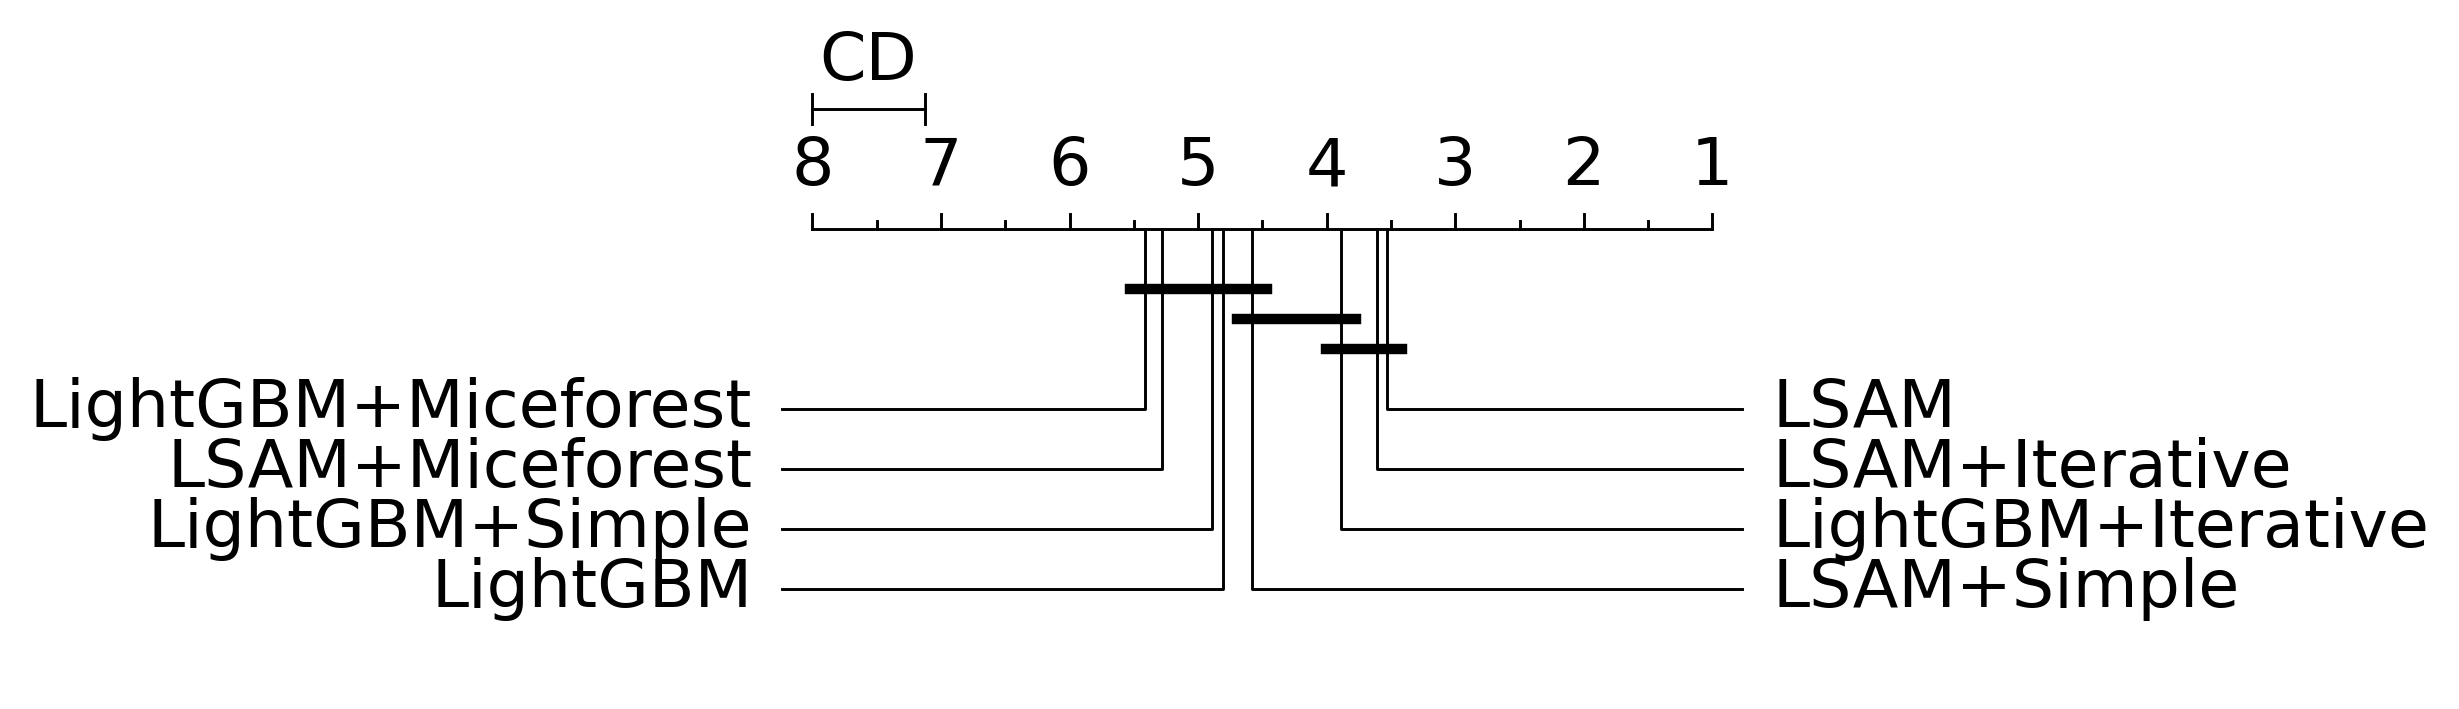
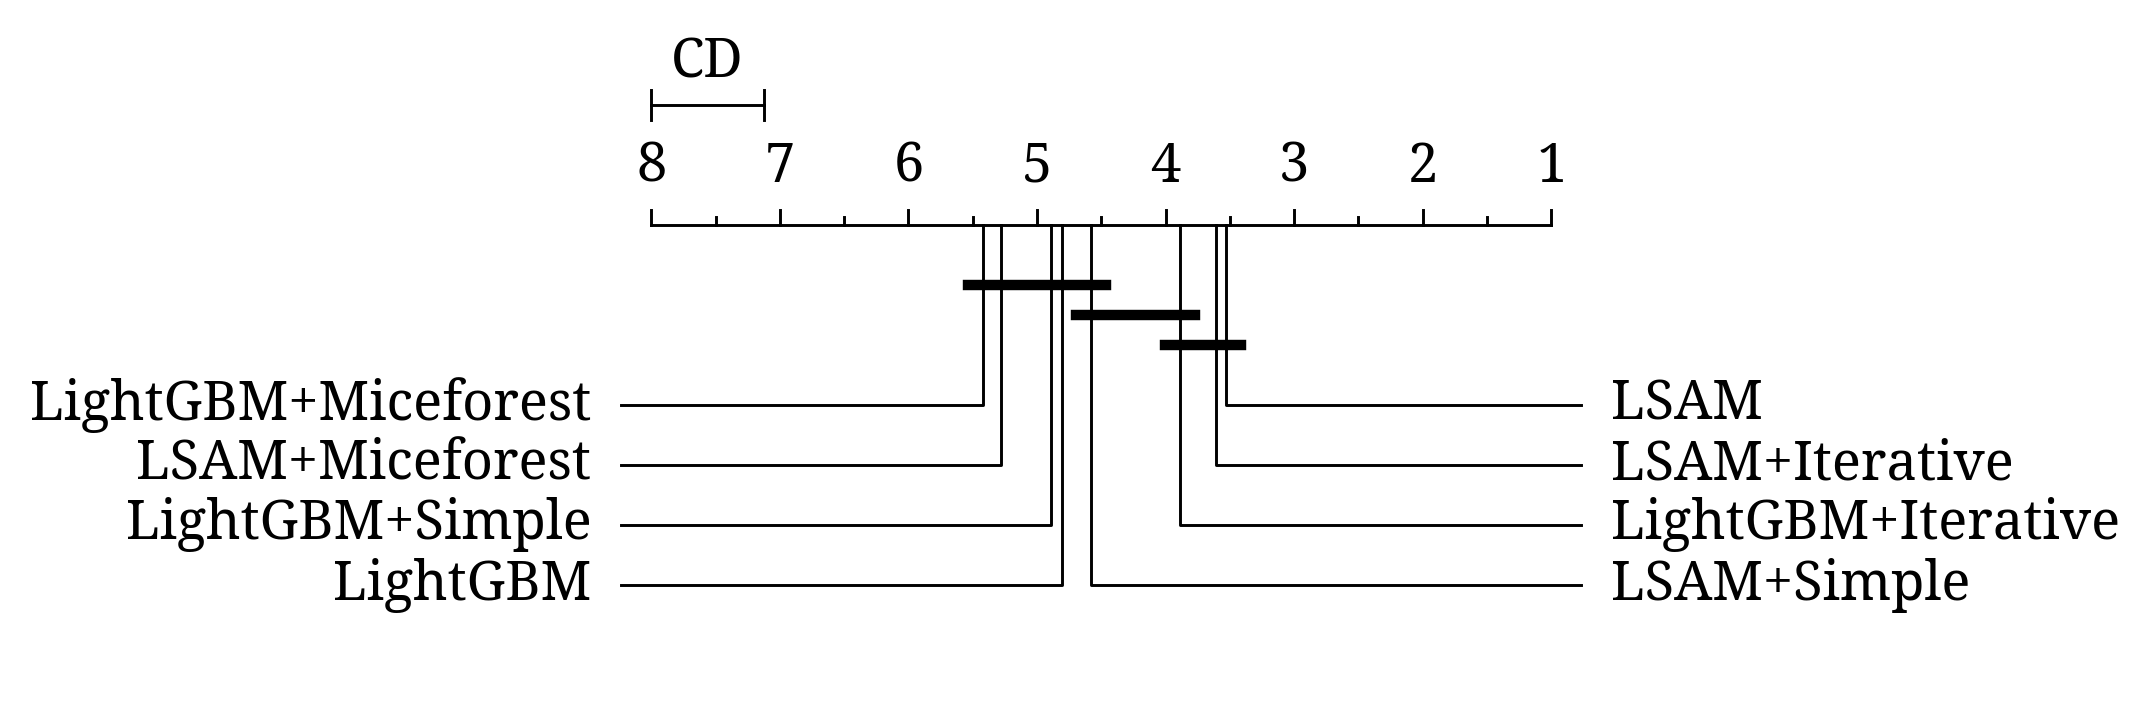
diagram formatting

diff --git a/cd-diagram/orange.py b/cd-diagram/orange.py
@@ -5,8 +5,8 @@ import itertools
 # matplotlib.use('agg')
 import matplotlib.pyplot as plt
 
-matplotlib.rcParams['font.size'] = 16
-
+matplotlib.rcParams['font.size'] = 13
+matplotlib.rcParams['font.family'] = "Noto Serif"
 import operator
 import math
 from scipy.stats import wilcoxon
